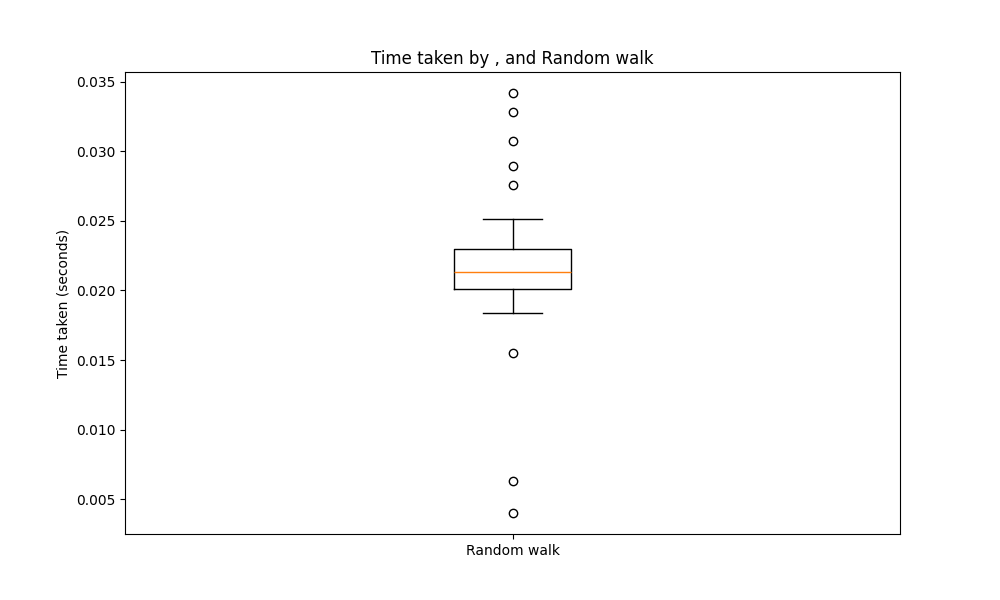
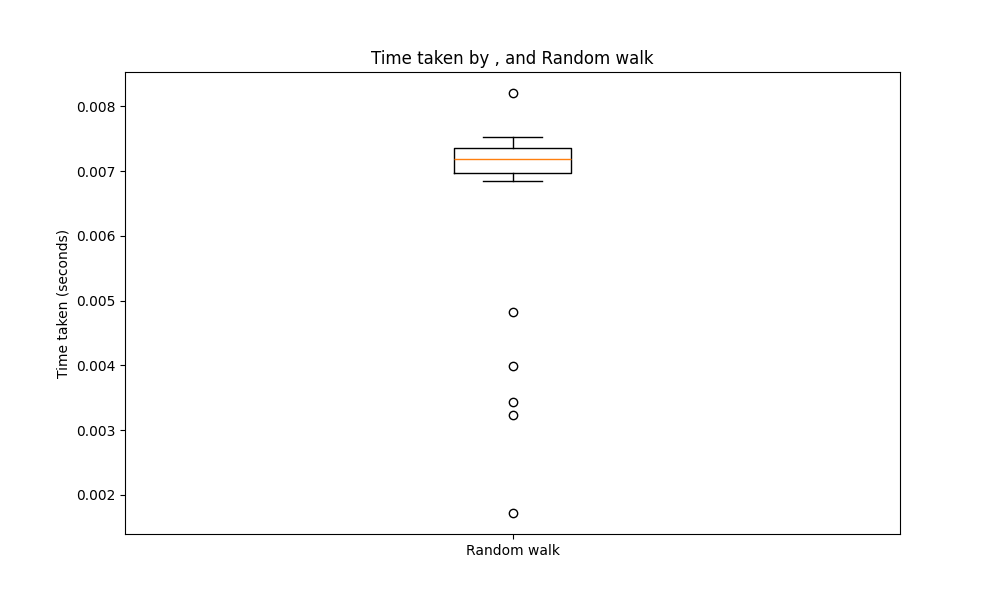
Not plotting results when not reached goal

diff --git a/tp3-busquedas-no-informadas/code/main.py b/tp3-busquedas-no-informadas/code/main.py
@@ -68,7 +68,9 @@ if __name__ == "__main__":
             algorithm_function = algorithms[algorithm_name]
             print(f"    * Executing algorithm: {algorithm_name}")
             results = algorithm_function(map)
-            all_results[algorithm_name].append(results)
+
+            if results.reached:
+                all_results[algorithm_name].append(results)
 
     save_csv(all_results, "../no-informada-results.csv")
 

diff --git a/tp3-busquedas-no-informadas/code/algorithms/walk_results.py b/tp3-busquedas-no-informadas/code/algorithms/walk_results.py
@@ -20,6 +20,10 @@ class WalkResults:
     def time_taken(self):
         return self._t1 - self._t0
     
+    @property
+    def reached(self):
+        return len(self.actions) > 0
+    
     def calculate_cost(self, cost_by_action=False):
         
         # When each action costs 1
